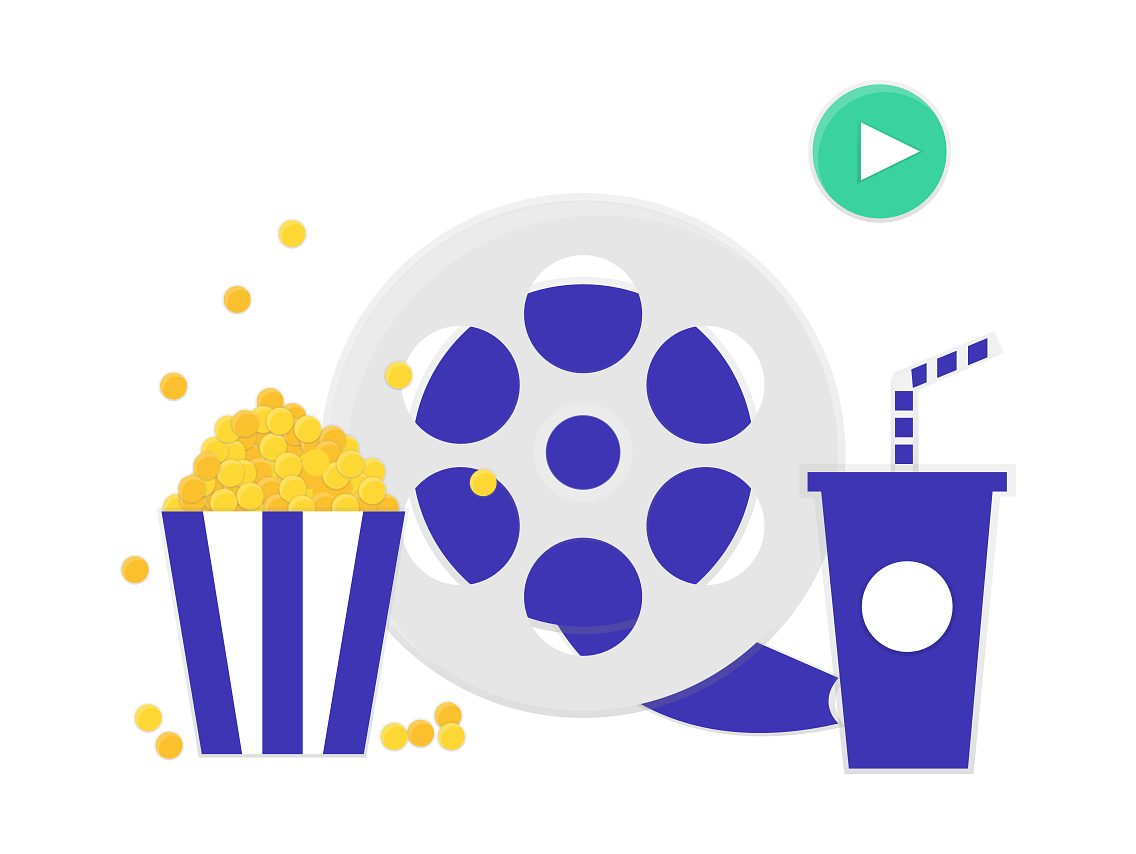
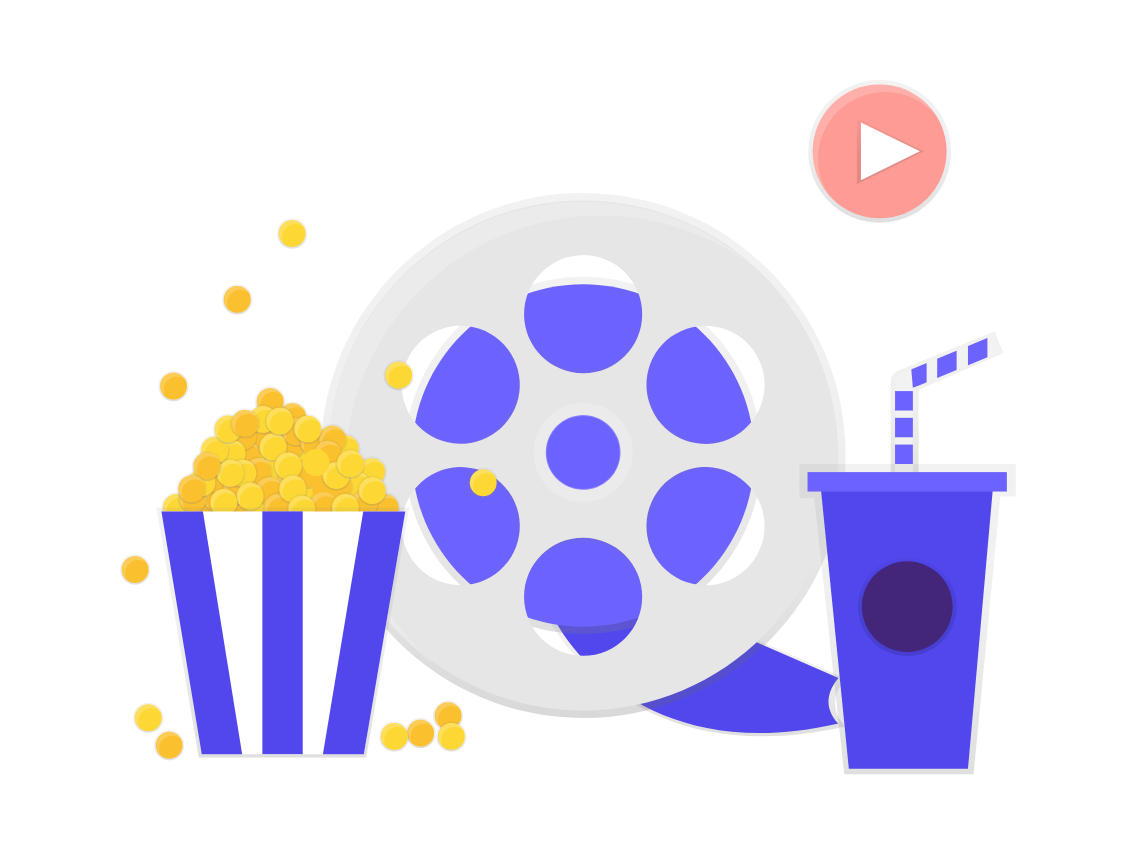
Change assets and colors

diff --git a/src/pages/login/index.tsx b/src/pages/login/index.tsx
@@ -53,7 +53,7 @@ class Login extends Component<Props, State> {
       <KeyboarDismiss>
         <PageContainer>
           <LogoContainer>
-            <Logo source={require('../../assets/movie-night.png')} />
+            <Logo source={require('../../assets/logo.png')} />
             <LogoTitle>Movies App</LogoTitle>
           </LogoContainer>
           <Formik

diff --git a/src/styles/theme.ts b/src/styles/theme.ts
@@ -23,9 +23,9 @@ const theme: CustomTheme = {
   roundness: 2,
   colors: {
     ...DefaultTheme.colors,
-    primary: '#3E35B4',
-    accent: '#FE3745',
-    text: '#3E35B4',
+    primary: '#6C63FF',
+    accent: '#FE9B95',
+    text: '#6C63FF',
     background: '#F5F6F7',
     lightGray: '#e5e5e5'
   }
